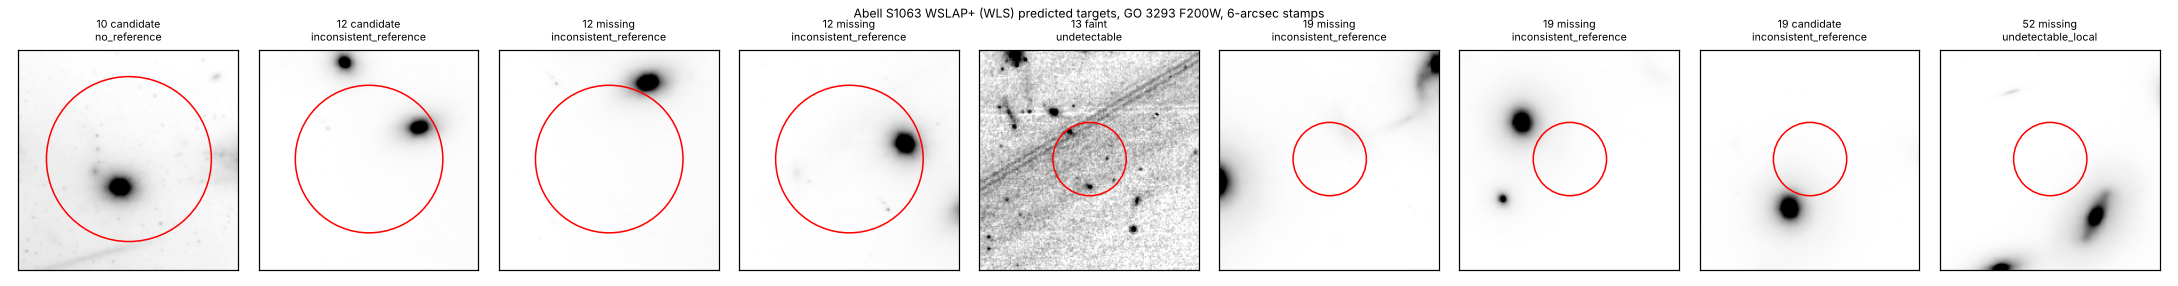
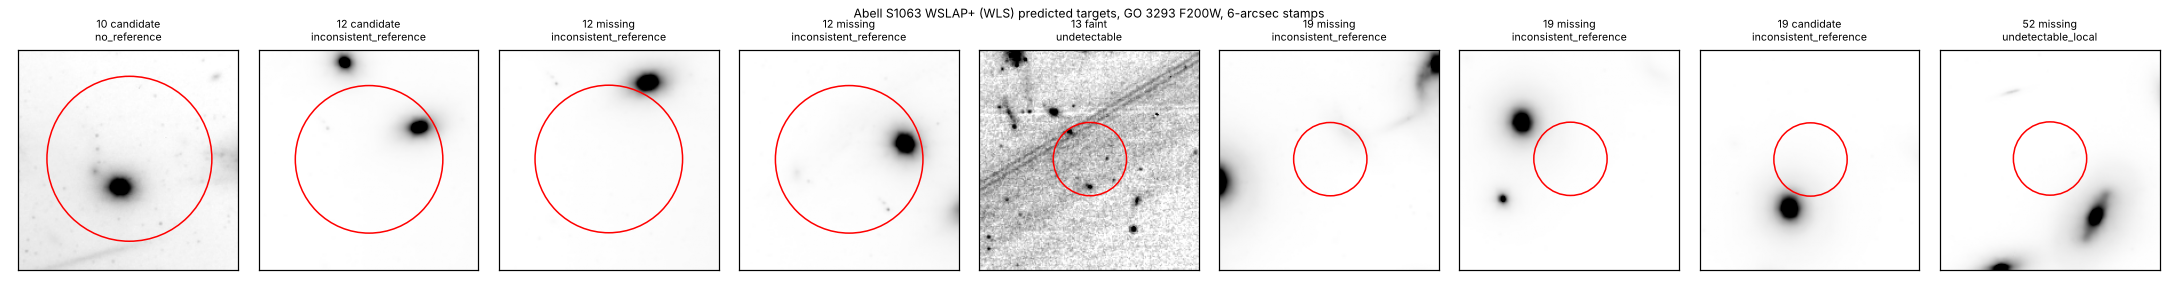
S1063 extra-image: review fixes (model= in run_field, cache deletion, sheet clipping, tests); re-run identical
Claude-Session: https://claude.ai/code/session_01Xr8a52xhNb1CwewEBZ7tQx

diff --git a/scripts/s1063_extra.py b/scripts/s1063_extra.py
@@ -47,9 +47,9 @@ K_REPEAT_TOL_ARCSEC = 1e-6  # rule 2: same map bytes -> same rms
 F_MIN_N = 18  # rule 1 (ASSUMPTION): half of the 36 images; match radius and medians as Bullet
 
 
-def spec_images_table():
-    """The 36 gate-K images in ``m1149_sharon.gold_images`` form (``system`` / ``a`` re-derived)."""
-    t = sw.spec_images()
+def spec_images_table(images):
+    """The gate-K images in ``m1149_sharon.gold_images`` form (``system`` / ``a`` re-derived)."""
+    t = images.copy()
     t.remove_columns(["system", "a"])
     return t
 
@@ -69,22 +69,8 @@ def k_repeat(k_wls: dict, stored: dict, tol: float = K_REPEAT_TOL_ARCSEC) -> dic
     }
 
 
-_INSTALLED: dict = {}
-
-
-def install_model(model) -> None:
-    """Make ``lens_consistency.load_model(MODEL)`` return the in-memory WSLAP+ model (no frame
-    offset: gate K placed it on the Chan+2020 positions); point ``m0417_extra`` at this field."""
-    _INSTALLED["model"] = model
-    lc.MODELS.setdefault(MODEL, {"kind": "maps"})
-    if not getattr(lc.load_model, "_s1063", False):
-        orig = lc.load_model
-
-        def load(name):
-            return (_INSTALLED["model"], {}, None) if name == MODEL else orig(name)
-
-        load._s1063 = True
-        lc.load_model = load
+def register() -> None:
+    """Point ``m0417_extra``'s field table at this field, tile and directory."""
     mx.FIELDS[FIELD] = (IMAGES_SPEC, MODEL, OBS, TILE)
     mx.IMAGES = OUT
     mx.OUT = FRAME
@@ -92,8 +78,8 @@ def install_model(model) -> None:
 
 
 def fetch_maps(maps: Path) -> tuple:
-    session = requests.Session()
-    _, directory = sw.zip_directory(session)
+    with requests.Session() as session:
+        _, directory = sw.zip_directory(session)
     maps.mkdir(parents=True, exist_ok=True)
     with ThreadPoolExecutor(len(sw.MAPS)) as pool:
         futs = {
@@ -112,7 +98,7 @@ def run(maps: Path, cache: Path) -> dict:
     stored = json.loads(GATEK.read_text())
     images = sw.spec_images()
     OUT.mkdir(parents=True, exist_ok=True)
-    spec_images_table().write(OUT / IMAGES_SPEC, format="ascii.ecsv", overwrite=True)
+    spec_images_table(images).write(OUT / IMAGES_SPEC, format="ascii.ecsv", overwrite=True)
     t, sha, nbytes = eg.fetch_table(DJA_PHOT)
     summary: dict = {
         "plan": str(OUT / "PLAN.md"),
@@ -137,14 +123,17 @@ def run(maps: Path, cache: Path) -> dict:
     if not (unit["passes"] and grid["passes"]):
         summary["stopped"] = "rule 4a / 4b failed (PLAN.md rule 4)"
         return summary
-    install_model(model)
+    register()
     fs = s3fs.S3FileSystem(anon=True, default_block_size=64 * 1024)
     cache.mkdir(parents=True, exist_ok=True)
     shapes = cache / Path(S3_3293.format(OBS, TILE, "cat.ecsv")).name
     if not shapes.exists():
         fs.get(S3_3293.format(OBS, TILE, "cat.ecsv")[5:], str(shapes))
     FRAME.mkdir(parents=True, exist_ok=True)
-    frame = mx.run_field(FIELD, cache, bt_hook=au.wls_backtrace)  # rule 3
+    try:  # rule 3 (the model as gate K-WLS used it: no frame offset)
+        frame = mx.run_field(FIELD, cache, bt_hook=au.wls_backtrace, model=model)
+    finally:
+        shapes.unlink(missing_ok=True)  # cloud disk rule: the pipeline catalogue is not kept
     summary["rule3_frame_tables"] = frame
     (FRAME / "summary.json").write_text(
         json.dumps(_clean({FIELD: frame}), indent=1, allow_nan=False) + "\n"

diff --git a/scripts/s1063_extra_sheet.py b/scripts/s1063_extra_sheet.py
@@ -19,7 +19,7 @@ import numpy as np  # noqa: E402
 import s1063_extra as sx  # noqa: E402
 from astropy.io import fits  # noqa: E402
 from astropy.table import Table  # noqa: E402
-from astropy.wcs import WCS  # noqa: E402
+from astropy.wcs import WCS, FITSFixedWarning  # noqa: E402
 from astropy.wcs.utils import proj_plane_pixel_scales  # noqa: E402
 
 HALF_ARCSEC = 3.0
@@ -33,21 +33,32 @@ def main() -> int:
     key = sx.S3_3293.format(sx.OBS, sx.TILE, "i2d.fits")[5:]
     n = len(t)
     fig, axes = plt.subplots(1, n, figsize=(2.2 * n, 2.6), squeeze=False)
-    warnings.simplefilter("ignore")
-    with fs.open(key) as fh, fits.open(fh, lazy_load_hdus=True) as hl:
-        h = hl["SCI"].header
-        w = WCS(h)
-        pix = float(proj_plane_pixel_scales(w.celestial).mean() * 3600.0)
-        half = int(round(HALF_ARCSEC / pix))
-        for ax, r in zip(axes[0], t, strict=True):
-            x, y = (int(round(float(v))) for v in w.world_to_pixel_values(r["ra"], r["dec"]))
-            d = np.asarray(hl["SCI"].section[y - half : y + half, x - half : x + half], float)
-            lo, hi = np.nanpercentile(d, [5, 99.5])
-            ax.imshow(d, origin="lower", cmap="gray_r", vmin=lo, vmax=hi)
-            ax.add_patch(plt.Circle((half, half), r["search_arcsec"] / pix, fill=False, color="r"))
-            ax.set_title(f"{r['system']} {r['image_class']}\n{r['class_local']}", fontsize=7)
-            ax.set_xticks([])
-            ax.set_yticks([])
+    with warnings.catch_warnings():
+        warnings.simplefilter("ignore", FITSFixedWarning)
+        with fs.open(key) as fh, fits.open(fh, lazy_load_hdus=True) as hl:
+            h = hl["SCI"].header
+            w = WCS(h)
+            ny, nx = h["NAXIS2"], h["NAXIS1"]
+            pix = float(proj_plane_pixel_scales(w.celestial).mean() * 3600.0)
+            half = int(round(HALF_ARCSEC / pix))
+            for ax, r in zip(axes[0], t, strict=True):
+                xf, yf = (float(v) for v in w.world_to_pixel_values(r["ra"], r["dec"]))
+                x, y = int(round(xf)), int(round(yf))
+                x0, x1 = max(x - half, 0), min(x + half, nx)
+                y0, y1 = max(y - half, 0), min(y + half, ny)
+                ax.set_xticks([])
+                ax.set_yticks([])
+                ax.set_title(f"{r['system']} {r['image_class']}\n{r['class_local']}", fontsize=7)
+                if x0 >= x1 or y0 >= y1:
+                    ax.text(0.5, 0.5, "off image", ha="center", transform=ax.transAxes)
+                    continue
+                d = np.asarray(hl["SCI"].section[y0:y1, x0:x1], float)
+                lo, hi = np.nanpercentile(d, [5, 99.5])
+                ax.imshow(d, origin="lower", cmap="gray_r", vmin=lo, vmax=hi)
+                circ = plt.Circle(
+                    (xf - x0, yf - y0), r["search_arcsec"] / pix, fill=False, color="r"
+                )
+                ax.add_patch(circ)
     title = "Abell S1063 WSLAP+ (WLS) predicted targets, GO 3293 F200W, 6-arcsec stamps"
     fig.suptitle(title, fontsize=8)
     fig.tight_layout()

diff --git a/tests/test_s1063_extra.py b/tests/test_s1063_extra.py
@@ -26,7 +26,7 @@ def test_constants_name_the_planned_field_model_tile_and_reference():
 
 
 def test_spec_images_are_the_36_gate_k_images():
-    t = m.spec_images_table()
+    t = m.spec_images_table(m.sw.spec_images())
     assert len(t) == 36 and "system" not in t.colnames
     assert len({str(i).split(".")[0] for i in t["image_id"]}) == 12
 
@@ -49,21 +49,34 @@ def test_frame_check_f_uses_the_lower_count():
     assert shifted["n_matched"] == 20 and not shifted["passes"]
 
 
-def test_install_model_routes_only_this_name():
-    orig = lc.load_model
+def test_register_points_the_frame_tables_at_go3293_tile():
+    m.register()
+    assert mx.FIELDS[m.FIELD] == (m.IMAGES_SPEC, m.MODEL, "o001", "t001")
+    assert mx.IMAGES == m.OUT and mx.OUT == m.FRAME and mx.S3 == m.S3_3293
+    mx.FIELDS.pop(m.FIELD)
+
+
+def test_run_field_uses_a_given_model_without_registry_or_offset(monkeypatch):
+    seen = {}
+
+    def no_lookup(name):
+        raise AssertionError("registry lookup with a given model")
+
+    class Stop(Exception):
+        pass
+
+    def backtrace(model, images, _):
+        seen["model"] = model
+        raise Stop
+
+    monkeypatch.setattr(lc, "load_model", no_lookup)
+    monkeypatch.setattr(lc, "apply_frame_offset", no_lookup)
+    monkeypatch.setattr(mx, "load_images", lambda field: None)
+    monkeypatch.setattr(mx.lensmodel, "backtrace_images", backtrace)
+    monkeypatch.setitem(mx.FIELDS, "x", ("f", "name", "o", "t"))
+    sentinel = object()
     try:
-        sentinel = object()
-        m.install_model(sentinel)
-        m.install_model(sentinel)  # idempotent: no nested wrappers
-        assert lc.load_model(m.MODEL) == (sentinel, {}, None)
-        assert lc.load_model.__closure__ is not None
-        assert mx.FIELDS[m.FIELD] == (m.IMAGES_SPEC, m.MODEL, "o001", "t001")
-        assert mx.IMAGES == m.OUT and mx.OUT == m.FRAME and mx.S3 == m.S3_3293
-        assert lc.MODELS[m.MODEL].get("frame_offset_arcsec") is None
-        other = next(n for n in lc.MODELS if n != m.MODEL)
-        assert lc.load_model.__code__ is not orig.__code__
-        assert other in lc.MODELS
-    finally:
-        lc.load_model = orig
-        lc.MODELS.pop(m.MODEL, None)
-        mx.FIELDS.pop(m.FIELD, None)
+        mx.run_field("x", Path("."), model=sentinel)
+    except Stop:
+        pass
+    assert seen["model"] is sentinel

diff --git a/scripts/m0417_extra.py b/scripts/m0417_extra.py
@@ -67,13 +67,15 @@ def load_images(field: str) -> Table:
     return t
 
 
-def run_field(field: str, cache: Path, bt_hook=None) -> dict:
+def run_field(field: str, cache: Path, bt_hook=None, model=None) -> dict:
     """``bt_hook(model, bt)``, if given, replaces the back-traced table (e.g. another source
-    estimator) before prediction and forced photometry."""
+    estimator) before prediction and forced photometry. ``model``, if given, is used as it is (no
+    registry lookup, no frame offset) in place of ``lens_consistency.load_model``."""
     _, name, obs, tile = FIELDS[field]
     images = load_images(field)
-    model, _, _ = lc.load_model(name)
-    lc.apply_frame_offset(name, model)
+    if model is None:
+        model, _, _ = lc.load_model(name)
+        lc.apply_frame_offset(name, model)
     bt = lensmodel.backtrace_images(model, images, {})
     if bt_hook is not None:
         bt = bt_hook(model, bt)

diff --git a/results/lens_consistency/s1063_extra/RESULT.md b/results/lens_consistency/s1063_extra/RESULT.md
@@ -34,13 +34,17 @@ stamp is a noisy region crossed by a diagonal streak. Nothing in the stamps chan
 any verdict.
 
 **Limitations.** The DJA v7 table has 1,621 rows (1,587 kept; reference depth 27.39 mag, `frozen.inputs`). Which
-exposures it was built from was not checked (Last-Modified 2023-09-26, before the GO 3293 data); a deeper JWST-era
-catalogue could make systems 12 and 19 consistent. The reference fluxes are not bCG-subtracted. z is fixed at z_spec;
+exposures it was built from was not checked (HTTP Last-Modified 2023-09-26, not stored; GO 3293 F200W is dated 2024-09-28
+in its header, not stored); whether a deeper catalogue would make systems 12 and 19 consistent is untested. The reference fluxes are not bCG-subtracted. z is fixed at z_spec;
 the 36 images are WSLAP+'s own constraints (not held out).
 
 **Data.** Two α members re-fetched by range reads (sha256 in `summary.json`, equal to the gate-K run), held in the
 session scratchpad and deleted after the run; DJA table (4,389,120 B) in memory only; GO 3293 SCI read once by a range
-stream; the pipeline `_cat.ecsv` in the session cache, deleted.
+stream; the pipeline `_cat.ecsv` in the session cache, deleted by the script after rule 3.
+After `/code-review` the code was revised (the model is passed to `m0417_extra.run_field` as a `model=` argument
+instead of through the `install_model` hook named in PLAN rule 3, with the same behaviour: no registry lookup, no frame
+offset; cache deletion; contact-sheet edge clipping) and the run repeated: `summary.json` and every table identical
+(diff of the two runs not stored). Deviation in wording only.
 
 ## Next
 - S1063 extra-image route closed as no reach under these rules. Reopen with a deeper JWST-era S1063 photometry
